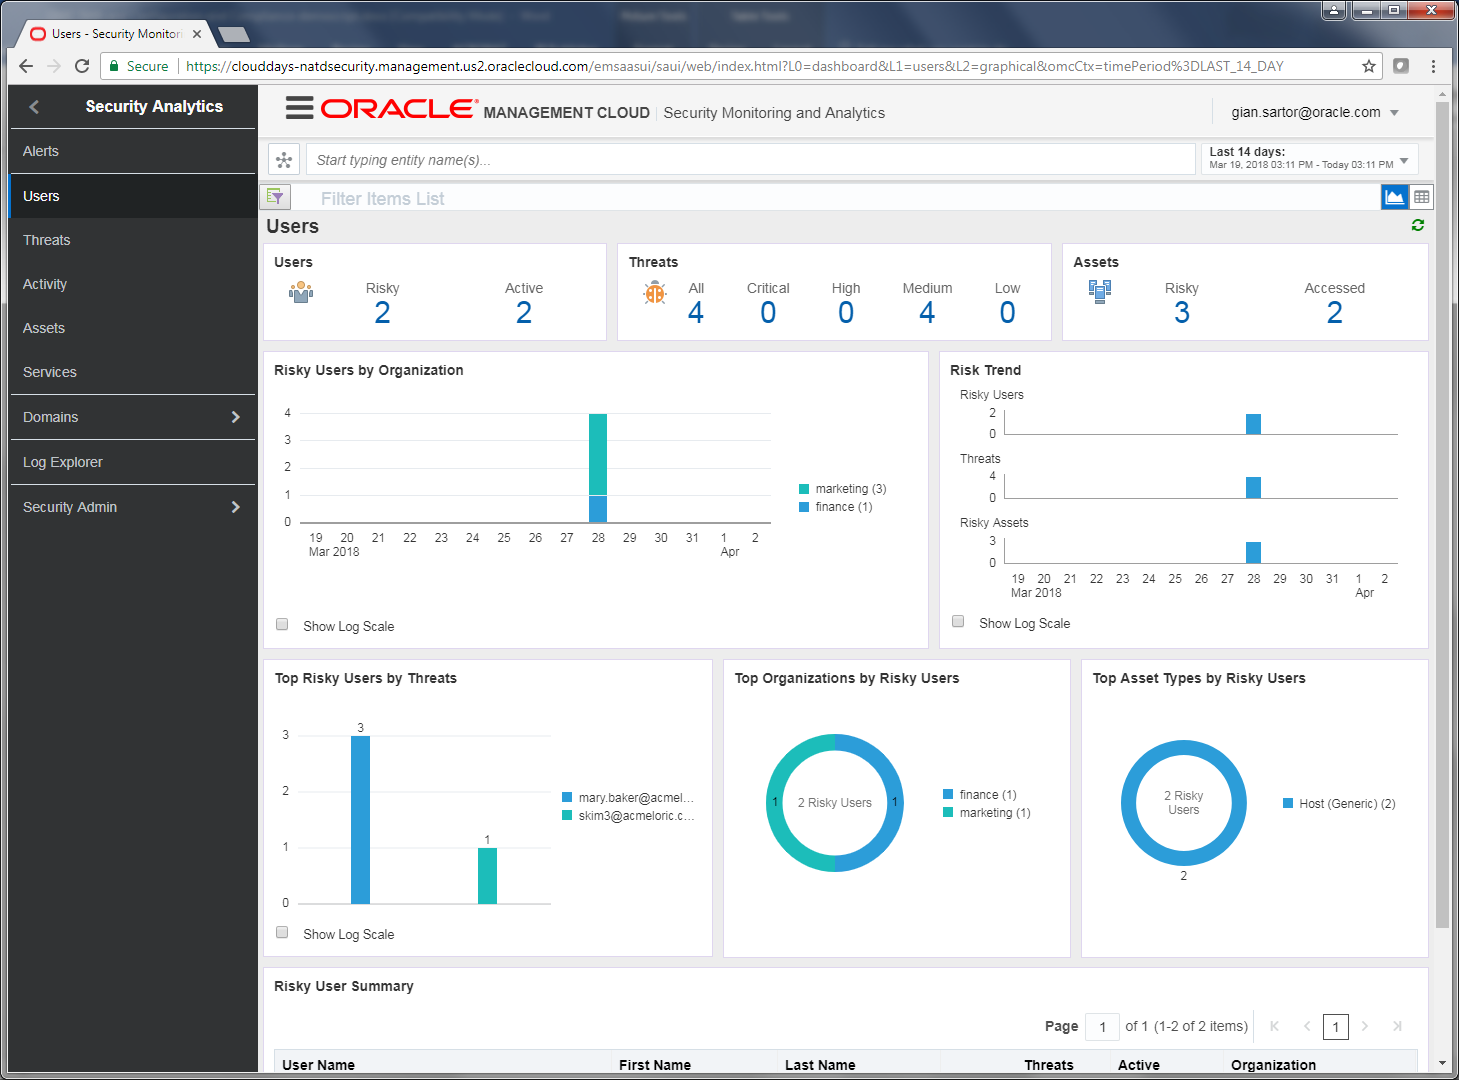
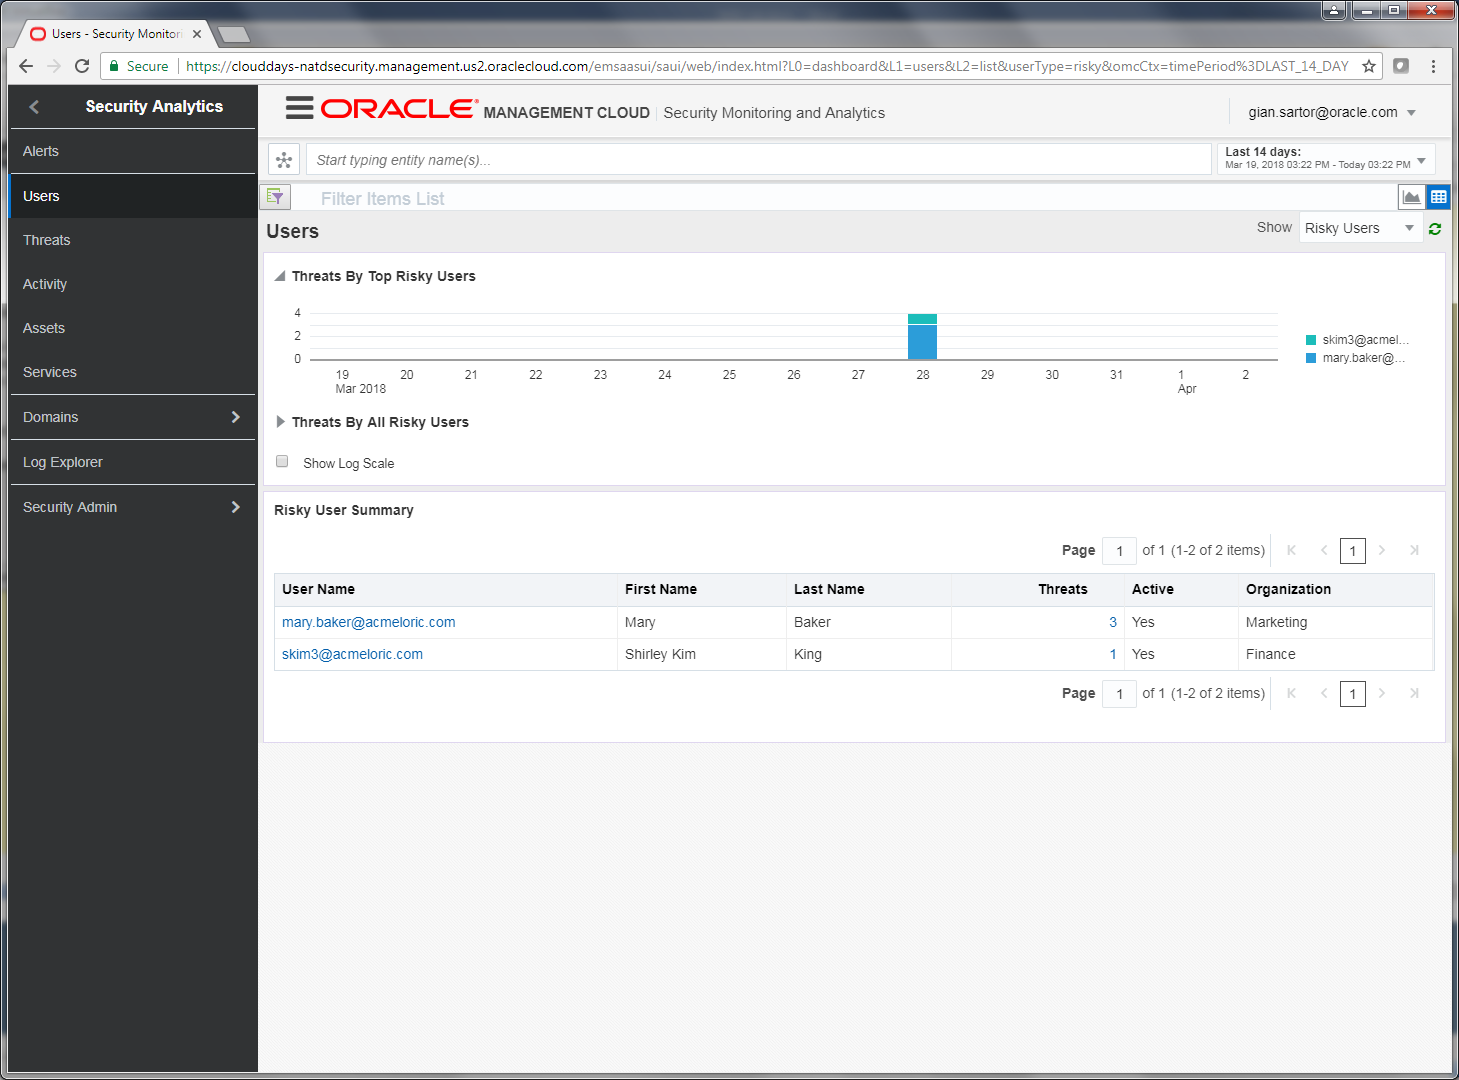
GFS_20180403.2

diff --git a/SMA300.md b/SMA300.md
@@ -6,7 +6,7 @@ Update: January 04, 2018
 
 The purpose of this lab is to give the participant hands on experience of Security Monitoring and Analytics Cloud Service and how they can leverage this service to enable rapid detection and investigation of security threats. 
 
-This lab will be broken up into two parts. Part A will consisit of a simple walkthrough of a shared SMA environment which already has some log data uploaded. Part B is optional, will be more advanced and will be completed in your own SMA environment into which you will upload sample data and evaluate threats.
+This lab will be broken up into two parts. **Part A** will consisit of a simple walkthrough of a shared SMA environment which already has some log data uploaded. **Part B** is optional, will be more advanced and will be completed in your own SMA environment into which you will upload sample data and evaluate threats.
 
 ***To log issues***, click here to go to the [github oracle](https://github.com/oracle/SecurityCloudDay/issues/new) repository issue submission form.
 
@@ -36,14 +36,63 @@ The following are minimum requirements for this lab
    - Sample data: Staged on the linux host provided (Part B only)
    - A computer with an internet connection and an SSH client (Part B only)
    
-## Part B
-## Accessing the shared SMA environment
+## Part A
+### Accessing the shared SMA environment
 
 1. Click on the following link which will take you to the shared SMA environment
-  - https://clouddays-natdsecurity.itom.management.us2.oraclecloud.com/emsaasui/emcpdfui/welcome.html?DOMAIN-INSTANCE-NAME=clouddays
+   - https://clouddays-natdsecurity.itom.management.us2.oraclecloud.com/emsaasui/emcpdfui/welcome.html?DOMAIN-INSTANCE-NAME=clouddays
 
 1. Sign in with the username and password provided by the session proctor
- 
+
+1. This is the OMC landing page showing all the available services. Let’s click on “Security Monitoring and Analytics” to access the SMA Cloud Service
+   - SMA is a unified SIEM and UEBA cloud solution that helps to identify advanced threats and enables faster time to detection by leveraging machine learning techniques along with very high performance and scale by being built on a big data platform.
+   
+    ![](images/300/300-039.png)
+
+### Evaluating users with associated threats
+
+1. You are now looking at the main SMA Landing page showing the “Users” Dashboard. Take a minute to review the different dashboards and corresponding data shown for the time period selected.
+   - a.	Set the time period in the top right of the screen, selecting the time range of “Last 14 Days”
+   - Users – shows the total number of risky users
+   - Threats - shows total, critical, high, medium and low risk threats
+   - Assets – shows the total number of risky assets
+   
+    ![](images/300/300-040.png)
+
+1. In the Users area of the page, click the number below risky to drill fown in to Risky users
+
+1. At the bottom of the page you can see a summary of risky users which is sorted with the most risky users at the top of the list. We can see that Mary Baker has the highest number of threats. Note that we can see Mary is a member of the Marketing department. 
+
+    ![](images/300/300-041.png)
+
+1. Click on mary.baker@acmeloric.com to investigate threats by Mary
+
+1. Here we can get more details on Mary. We see her organization, manager, whether she is active employee, her access is locked or not, phone number, email and location. Summary View shows:
+   - Threats by category
+   - Top Risky Assets by Threats
+   - Threats by Asset Type
+   
+    ![](images/300/300-042.png)
+
+1. Click on the Threats tab in the User details window.
+   - We are now looking at the Threat timeline and we can view this timeline by Risk Level or we can change the view and view the timeline by Threat category to view the events classified in the kill chain
+   
+1. In the Threat Details section near the bottom of the page, we can see the various threats associated with user Mary Baker. Two threats have been classified as “infiltration” type events and one has been classified as “reconnaissance”
+
+    ![](images/300/300-043.png)
+	
+   - Lets drill down and get some more information about the BruteForceAttack event. Click on the event id name in the ID column.
+   
+1. You are now looking at the expanded Threat Details pane which is giving you yet more details of the individual events comprising this threat.
+
+    ![](images/300/300-044.png)
+
+1. Click the Log link
+
+1. Another tab is now open in your browser and we are looking at the individual log events in Log Analytics.
+   - This is great strength of our unified platform. Typically a security analyst may have to switch between multiple systems when investigating a security incident. Notifications may be sent by one system but log data may be contained in another system. Here we have easily switched to the log aggregator where we could perform yet further analysis on the events, searching for other types of related activity.
+   
+    ![](images/300/300-045.png)  
    
 ## Part B
 ## STEP 1 - Accessing your Environment & Initial Configuration
